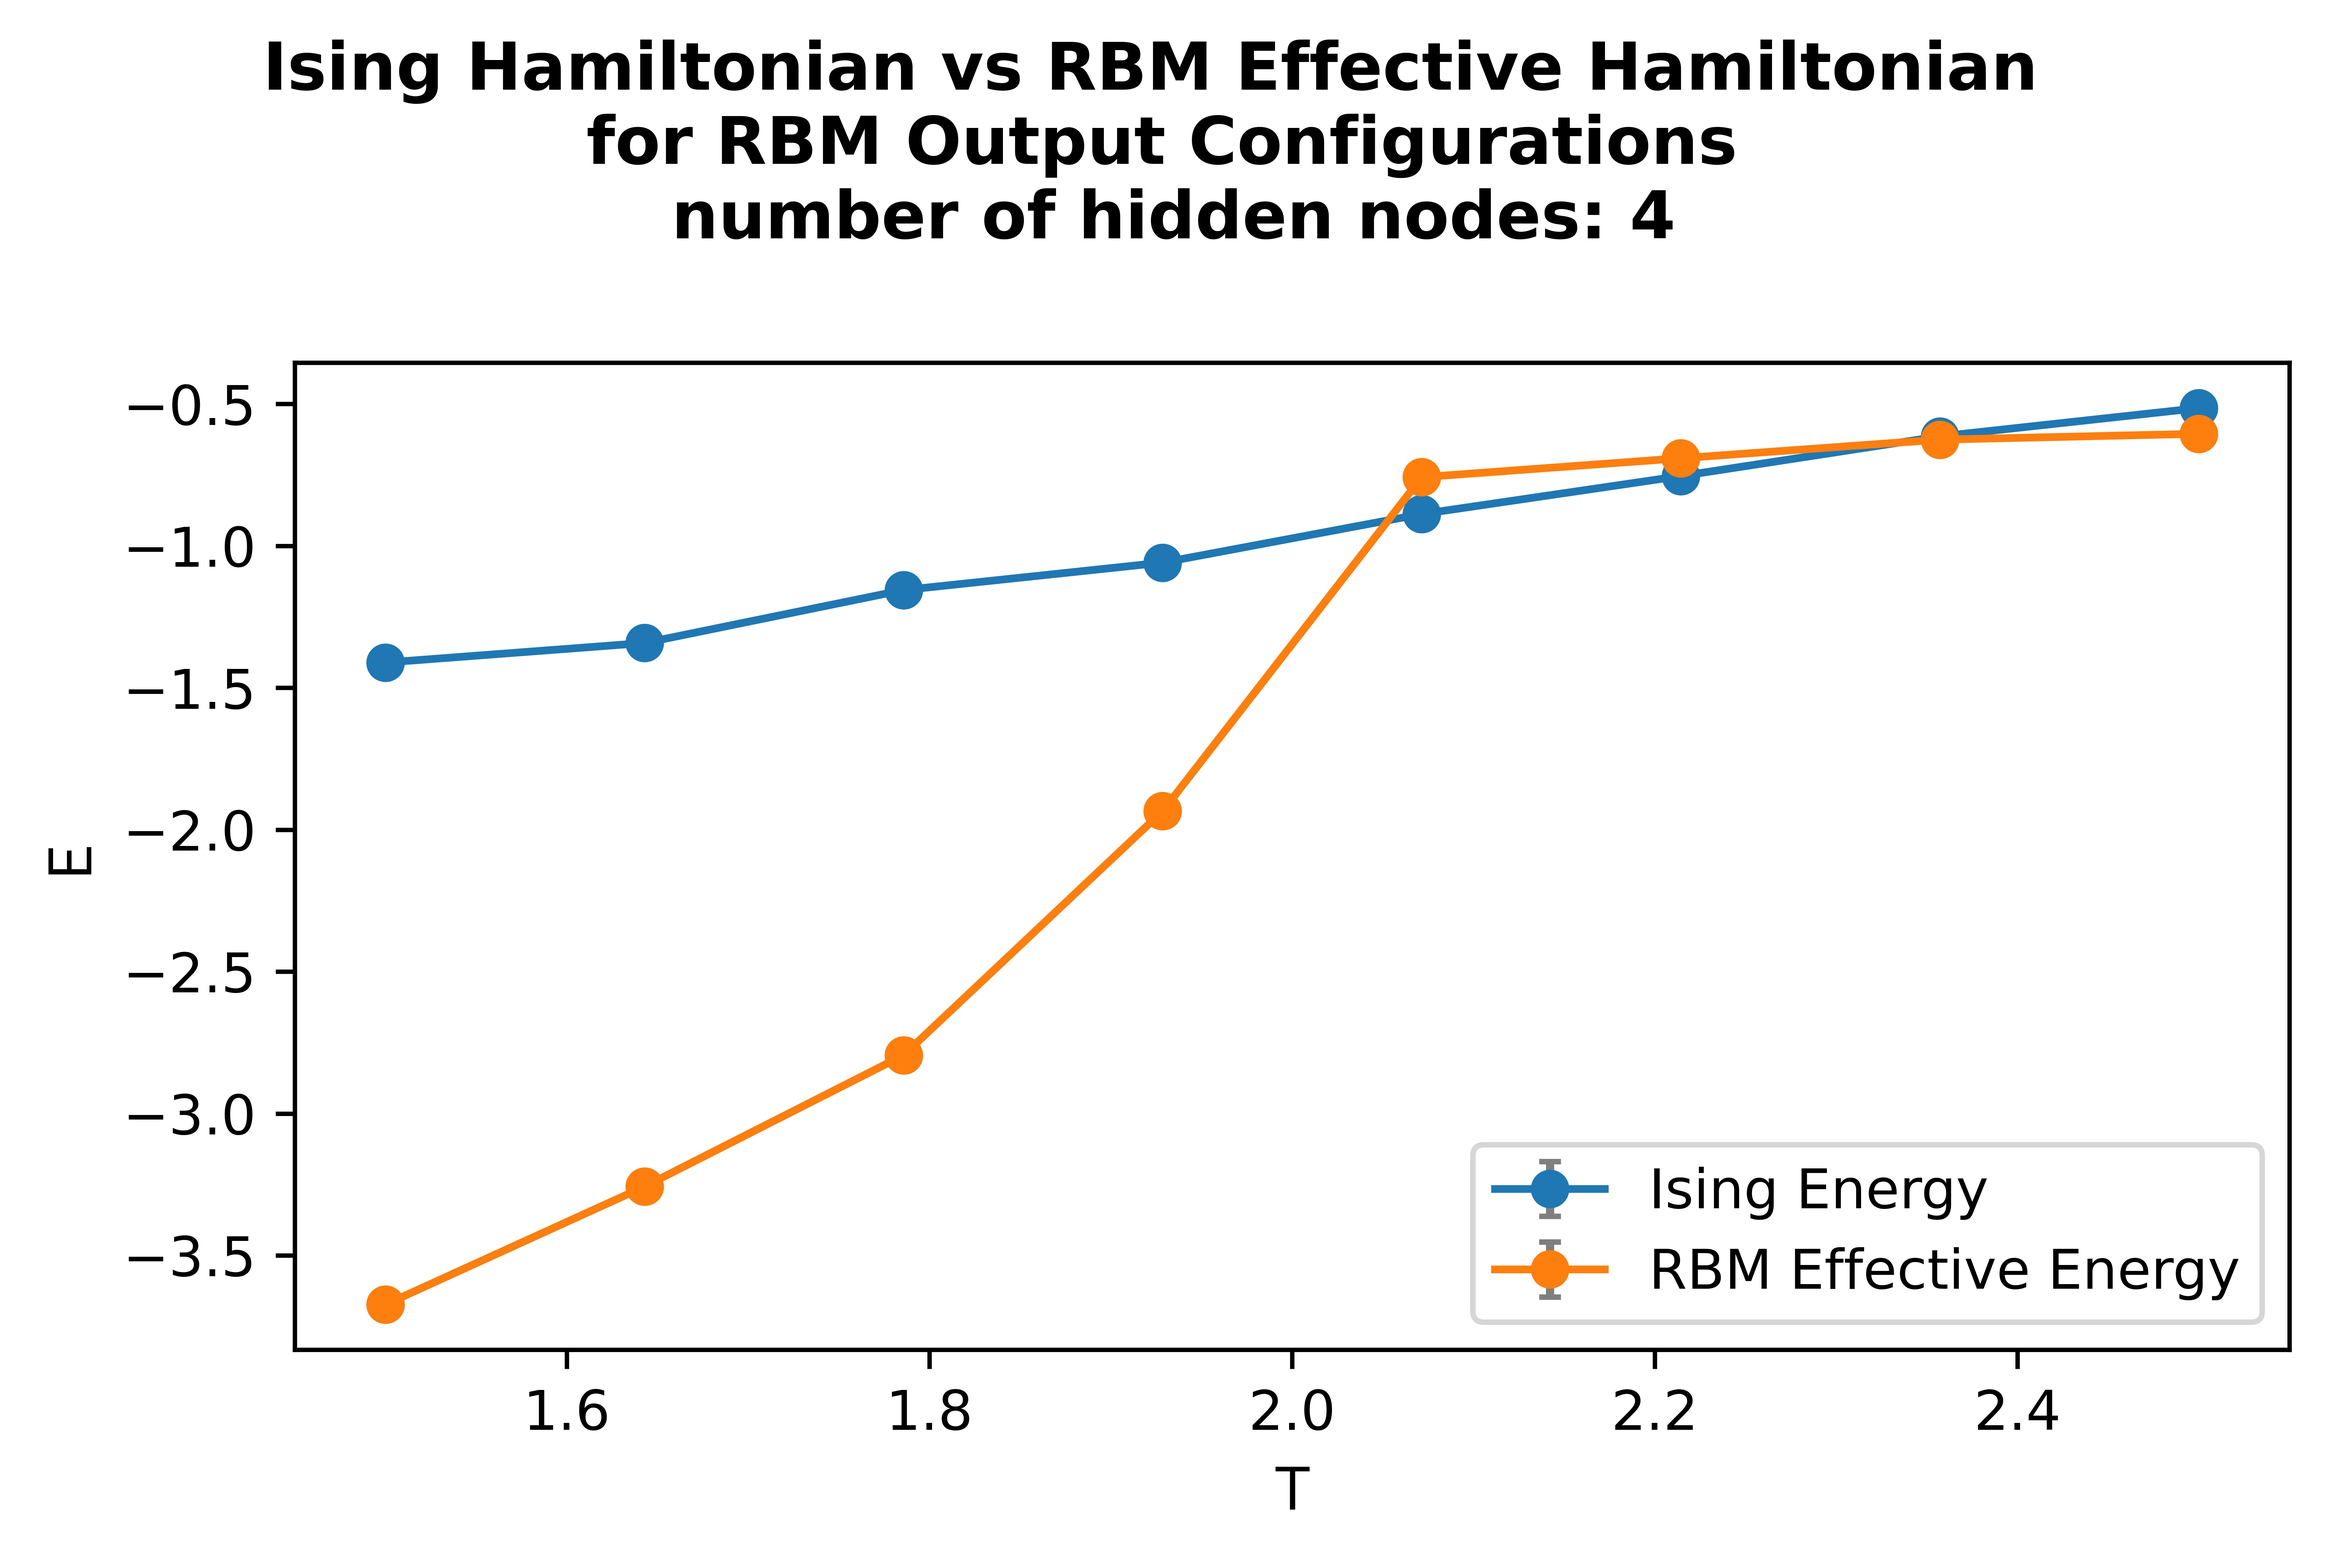
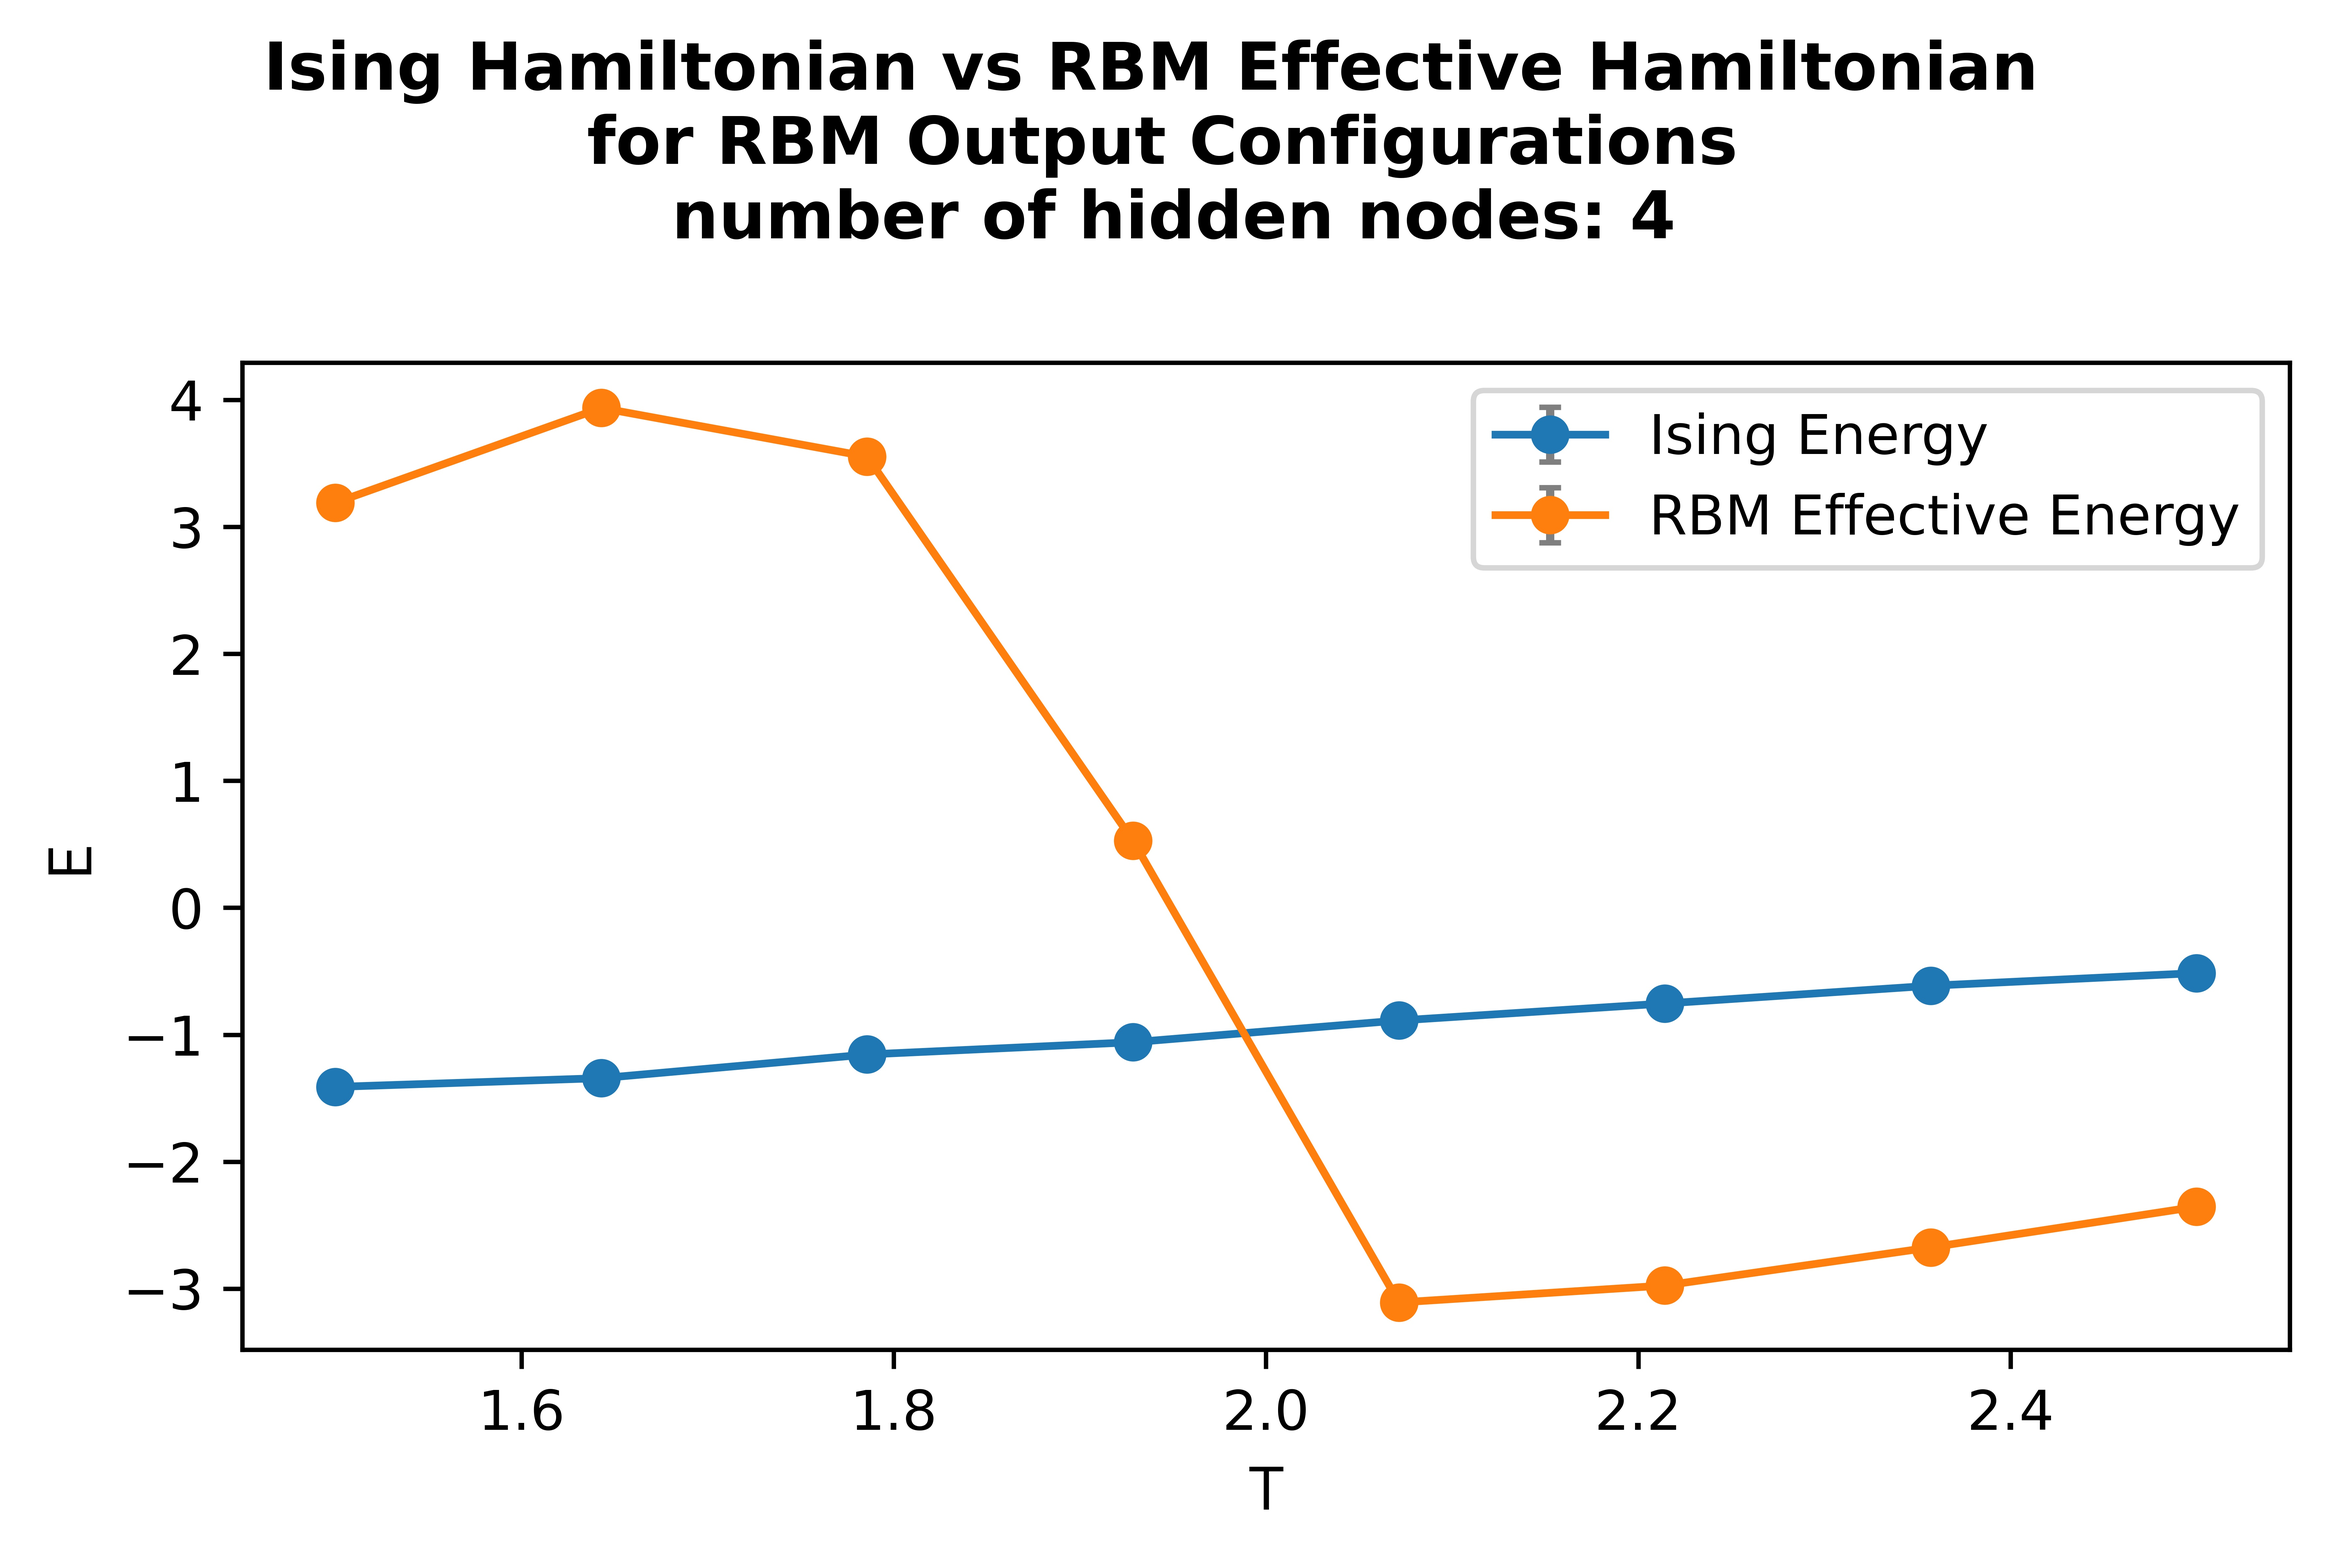
Updated calculation for RBM effective Hamiltonian and added Swendsen

diff --git a/RBM Effective Hamiltonian.py b/RBM Effective Hamiltonian.py
@@ -3,45 +3,69 @@ from MyFonts import *
 import numpy as np
 import os
 import matplotlib.pyplot as plt
+import time
 
-def E_eff(H, J, spins):
-    spins_rbm = ((spins + 1) / 2).flatten()
-    E_eff = 4 * np.dot(spins_rbm, np.dot(H, spins_rbm.T)) - np.dot(J, spins_rbm.T) + np.sum(H)
-    return E_eff
+start = time.time()
+
+N = n * n
+
+def sigmoid(x):
+    return 1.0 / (1 + np.exp(-x))
 
 def error(lst):
     return np.std(lst, ddof = 1) / np.sqrt(np.size(lst))
 
-def E_eff_lst(H, J, spins_multi):
+def E_eff_lst(W, b, c, spins_multi):
     spins_num = np.shape(spins_multi)[0]
     E_lst = np.zeros(spins_num)
+    nH = len(c)
+    ki_0 = np.log(1 + np.exp(c))
+    sig_c = sigmoid(c)
+    ki_1 = sig_c
+    ki_2 = sig_c - sig_c ** 2
+    coupling_0 = np.sum(ki_0) # 0th order coupling
+    coupling_1_vec = b + np.dot(ki_1, W.T) # 1st order
+    coupling_2_mat = np.zeros((N, N))
+    for i1 in range(N):
+        for i2 in range(N):
+            coupling_2_mat[i1, i2] = np.sum(ki_2 * W[i1] * W[i2])
     for i in range(spins_num):
-        E_lst[i] = E_eff(H, J, spins_multi[i])
+        spins = spins_multi[i].flatten()
+        coupling_1 = np.sum(coupling_1_vec * spins)
+        coupling_2 = np.dot(spins, np.dot(coupling_2_mat, spins.T)) / 2
+        E_eff = - coupling_0 - coupling_1 - coupling_2
+        # Insert E_eff here
+        # print(str(i) +':' + format(time.time() - start, '.2f'))
+        E_lst[i] = E_eff
     return E_lst
 
-def E_eff_val_err(H, J, spins_multi):
+def E_eff_val_err(W, b, c, spins_multi, T):
     N = spins_multi[0].size
-    E_eff_norm = E_eff_lst(H, J, spins_multi) / N
+    E_eff_norm = E_eff_lst(W, b, c, spins_multi) * T / N 
     return [np.mean(E_eff_norm), error(E_eff_norm)]
 
 for nH in nH_list:
     nH_name = 'nH = ' + str(nH)
     load_data_path = os.path.join('Data', 'RBM Generated Data', nH_name)
-    load_couplings_path = os.path.join('Data', 'RBM Parameters', 'Couplings', nH_name)
-    load_lt_couplings_path = os.path.join('Data', 'RBM Parameters', 'Couplings', 'Linear Term', nH_name)
+    weight_path = os.path.join('Data', 'RBM Parameters', 'Weights', nH_name)
+    v_bias_path = os.path.join('Data', 'RBM Parameters', 'Vis Biases', nH_name)
+    h_bias_path = os.path.join('Data', 'RBM Parameters', 'Hid Biases', nH_name)
     obs_path = os.path.join('Data', 'RBM Generated Data', nH_name, 'Observables')
     E_vals = np.load(os.path.join(obs_path, 'E_vals.npy'))
     E_errs = np.load(os.path.join(obs_path, 'E_errs.npy'))
-    # E_eff_all = []
-    # for T in T_range:
-    #     file_name = 'T = ' + format(T, '.2f') + '.npy'
-    #     H = np.load(os.path.join(load_couplings_path, file_name))[-1]
-    #     J = np.load(os.path.join(load_lt_couplings_path, file_name))
-    #     data = np.load(os.path.join(load_data_path, file_name))
-    #     E_eff_all.append(E_eff_val_err(H, J, data))
-    # [E_eff_vals, E_eff_errs] = np.transpose(E_eff_all)
-    # np.save(os.path.join(obs_path, 'E_eff_vals.npy'), E_eff_vals)
-    # np.save(os.path.join(obs_path, 'E_eff_errs.npy'), E_eff_errs)
+    E_eff_all = []
+    for T in T_range:
+        file_name = 'T = ' + format(T, '.2f') + '.npy'
+        epoch_name = 'Epochs = ' + str(me)
+        W = np.load(os.path.join(weight_path, epoch_name, file_name))
+        b = np.load(os.path.join(v_bias_path, epoch_name, file_name))
+        c = np.load(os.path.join(h_bias_path, epoch_name, file_name))
+        data = np.load(os.path.join(load_data_path, file_name))
+        E_eff_all.append(E_eff_val_err(W, b, c, data, T))
+        print(nH_name + ', T = ' + format(T, '.2f') + ', time = ' + format(time.time() - start, '.2f'))
+    [E_eff_vals, E_eff_errs] = np.transpose(E_eff_all)
+    np.save(os.path.join(obs_path, 'E_eff_vals.npy'), E_eff_vals)
+    np.save(os.path.join(obs_path, 'E_eff_errs.npy'), E_eff_errs)
 
     E_eff_vals = np.load(os.path.join(obs_path, 'E_eff_vals.npy'))
     E_eff_errs = np.load(os.path.join(obs_path, 'E_eff_errs.npy'))

diff --git a/Swendsen Couplings.py b/Swendsen Couplings.py
@@ -1,0 +1,34 @@
+from Parameters import *
+from MyFonts import *
+import numpy as np
+import os
+import matplotlib.pyplot as plt
+import time
+
+class Coupling:
+    def __init__(self, sites, order):
+        self.sites = sites
+        self.order = order
+
+# nearest neighbour coupling
+coup_nn = Coupling(sites = ((-1, 0), (1, 0), (0, -1), (0, 1)), order = 2)
+
+# next nearest neighbour coupling
+coup_next_nn = Coupling(sites = ((-1, -1), (-1, 1), (1, -1), (1, 1)), order = 2)
+
+# coupling between spins that are 2 sites apart (K4 in CHung & Kao)
+coup_2 = Coupling(sites = ((-2, 0), (2, 0), (0, -2), (0, 2)), order = 2)
+
+
+# S is the specific spin-indpendent coupling at site l
+# The type of coupling it calculates depends on the argument coup_lst
+def S(l, spins, coup):
+    val = 0
+    la, lb = l
+    (m, n) = spins.shape
+    for i, j in coup.sites:
+        la_new = la + i
+        lb_new = lb + j
+        if la_new in range(m) and lb_new in range(n):
+            val += spins[la_new, lb_new]
+    return val
